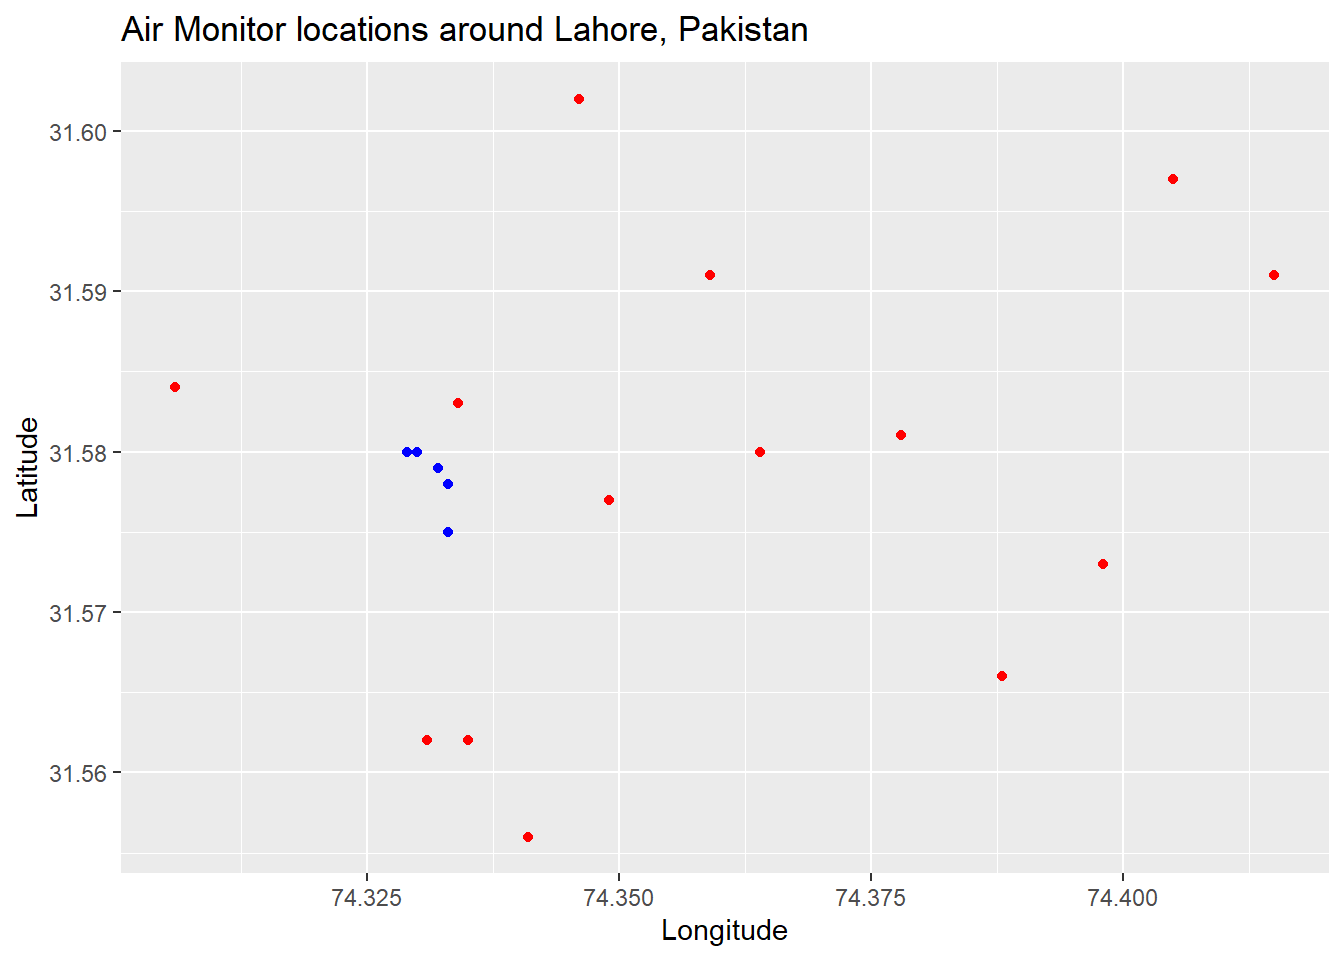
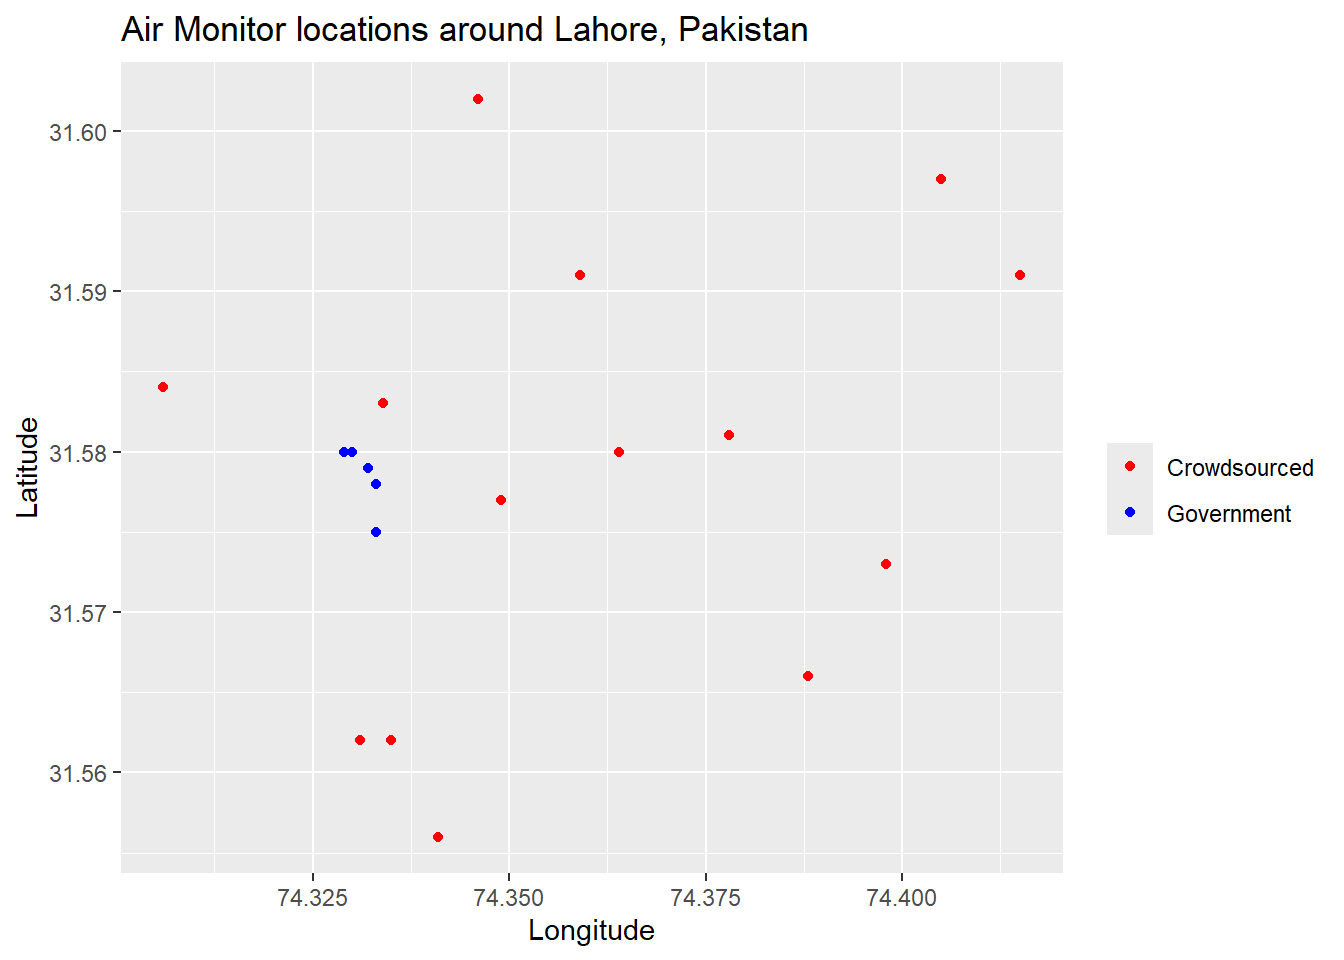
Tweeked hmwk1 for feedback

diff --git a/eds-222-hw1-Mull.html b/eds-222-hw1-Mull.html
@@ -170,19 +170,13 @@ Note
 <section id="load-libraries" class="level4">
 <h4 class="anchored" data-anchor-id="load-libraries">Load Libraries</h4>
 <div class="cell">
-<details class="code-fold">
-<summary>Code</summary>
 <div class="sourceCode cell-code" id="cb1"><pre class="sourceCode r code-with-copy"><code class="sourceCode r"><span id="cb1-1"><a href="#cb1-1" aria-hidden="true" tabindex="-1"></a><span class="fu">library</span>(tidyverse)</span>
 <span id="cb1-2"><a href="#cb1-2" aria-hidden="true" tabindex="-1"></a><span class="fu">library</span>(here)</span></code><button title="Copy to Clipboard" class="code-copy-button"><i class="bi"></i></button></pre></div>
-</details>
 </div>
 <p>Load the data from each source and label it as <code>crowdsourced</code> and <code>govt</code> accordingly. For example:</p>
 <div class="cell">
-<details class="code-fold">
-<summary>Code</summary>
 <div class="sourceCode cell-code" id="cb2"><pre class="sourceCode r code-with-copy"><code class="sourceCode r"><span id="cb2-1"><a href="#cb2-1" aria-hidden="true" tabindex="-1"></a>crowdsourced <span class="ot">&lt;-</span> <span class="fu">readRDS</span>(<span class="fu">file.path</span>(<span class="st">"data"</span>, <span class="st">"airpol-PK-crowdsourced.RDS"</span>))</span>
 <span id="cb2-2"><a href="#cb2-2" aria-hidden="true" tabindex="-1"></a>govt <span class="ot">&lt;-</span> <span class="fu">readRDS</span>(<span class="fu">file.path</span>(<span class="st">"data"</span>, <span class="st">"airpol-PK-govt.RDS"</span>))</span></code><button title="Copy to Clipboard" class="code-copy-button"><i class="bi"></i></button></pre></div>
-</details>
 </div>
 <div class="callout callout-style-default callout-warning callout-titled">
 <div class="callout-header d-flex align-content-center">
@@ -203,18 +197,12 @@ Warning
 </ol>
 <p>There are 5488 rows in crowdsourced and 1960 rows in govt.</p>
 <div class="cell">
-<details class="code-fold">
-<summary>Code</summary>
 <div class="sourceCode cell-code" id="cb3"><pre class="sourceCode r code-with-copy"><code class="sourceCode r"><span id="cb3-1"><a href="#cb3-1" aria-hidden="true" tabindex="-1"></a><span class="co"># Use nrow to search number of rows in data frames</span></span>
 <span id="cb3-2"><a href="#cb3-2" aria-hidden="true" tabindex="-1"></a><span class="fu">print</span>(<span class="fu">paste</span>(<span class="st">"Crowdsource has"</span>,<span class="fu">nrow</span>(crowdsourced), <span class="st">"rows"</span>))</span></code><button title="Copy to Clipboard" class="code-copy-button"><i class="bi"></i></button></pre></div>
-</details>
 <div class="cell-output cell-output-stdout">
 <pre><code>[1] "Crowdsource has 5488 rows"</code></pre>
 </div>
-<details class="code-fold">
-<summary>Code</summary>
 <div class="sourceCode cell-code" id="cb5"><pre class="sourceCode r code-with-copy"><code class="sourceCode r"><span id="cb5-1"><a href="#cb5-1" aria-hidden="true" tabindex="-1"></a><span class="fu">print</span>(<span class="fu">paste</span>(<span class="st">"Govt has"</span>,<span class="fu">nrow</span>(govt), <span class="st">"rows"</span>))</span></code><button title="Copy to Clipboard" class="code-copy-button"><i class="bi"></i></button></pre></div>
-</details>
 <div class="cell-output cell-output-stdout">
 <pre><code>[1] "Govt has 1960 rows"</code></pre>
 </div>
@@ -225,8 +213,6 @@ Warning
 <p>For this question I did it two different ways. First, I used groupby() and mutated a new column. Then, I printed the length of unique values in that series.</p>
 <p>The second way I used distinct() to find unique pairs in lat and long and then counted them. This was seemed cleaner in code.</p>
 <div class="cell">
-<details class="code-fold">
-<summary>Code</summary>
 <div class="sourceCode cell-code" id="cb7"><pre class="sourceCode r code-with-copy"><code class="sourceCode r"><span id="cb7-1"><a href="#cb7-1" aria-hidden="true" tabindex="-1"></a><span class="co"># Use groupby() and mutate to find the number of unique combinations and store them in a new series called lat_long </span></span>
 <span id="cb7-2"><a href="#cb7-2" aria-hidden="true" tabindex="-1"></a>unique_crowdsourced <span class="ot">&lt;-</span> crowdsourced <span class="sc">%&gt;%</span></span>
 <span id="cb7-3"><a href="#cb7-3" aria-hidden="true" tabindex="-1"></a>  <span class="fu">group_by</span>(latitude, longitude) <span class="sc">%&gt;%</span></span>
@@ -234,12 +220,9 @@ Warning
 <span id="cb7-5"><a href="#cb7-5" aria-hidden="true" tabindex="-1"></a>  </span>
 <span id="cb7-6"><a href="#cb7-6" aria-hidden="true" tabindex="-1"></a><span class="co"># Use unique() to find the number of unique values in lat_long. Use length to count the number of unique pairs. Print </span></span>
 <span id="cb7-7"><a href="#cb7-7" aria-hidden="true" tabindex="-1"></a><span class="fu">print</span>(<span class="fu">paste</span>(<span class="st">"The number of unique values in crowdsource lat_long is"</span>,<span class="fu">length</span>(<span class="fu">unique</span>(unique_crowdsourced<span class="sc">$</span>lat_long))))</span></code><button title="Copy to Clipboard" class="code-copy-button"><i class="bi"></i></button></pre></div>
-</details>
 <div class="cell-output cell-output-stdout">
 <pre><code>[1] "The number of unique values in crowdsource lat_long is 14"</code></pre>
 </div>
-<details class="code-fold">
-<summary>Code</summary>
 <div class="sourceCode cell-code" id="cb9"><pre class="sourceCode r code-with-copy"><code class="sourceCode r"><span id="cb9-1"><a href="#cb9-1" aria-hidden="true" tabindex="-1"></a><span class="co"># Use distinct to find the unique combinations of latitude and longitude and Count() to count them</span></span>
 <span id="cb9-2"><a href="#cb9-2" aria-hidden="true" tabindex="-1"></a>unique_govt <span class="ot">&lt;-</span> govt <span class="sc">%&gt;%</span></span>
 <span id="cb9-3"><a href="#cb9-3" aria-hidden="true" tabindex="-1"></a>  <span class="fu">distinct</span>(latitude, longitude) <span class="sc">%&gt;%</span></span>
@@ -247,7 +230,6 @@ Warning
 <span id="cb9-5"><a href="#cb9-5" aria-hidden="true" tabindex="-1"></a></span>
 <span id="cb9-6"><a href="#cb9-6" aria-hidden="true" tabindex="-1"></a><span class="co"># Print </span></span>
 <span id="cb9-7"><a href="#cb9-7" aria-hidden="true" tabindex="-1"></a><span class="fu">print</span>(<span class="fu">paste</span>(<span class="st">"The number of unique values in govt lat_long is"</span>,unique_govt))</span></code><button title="Copy to Clipboard" class="code-copy-button"><i class="bi"></i></button></pre></div>
-</details>
 <div class="cell-output cell-output-stdout">
 <pre><code>[1] "The number of unique values in govt lat_long is 5"</code></pre>
 </div>
@@ -273,7 +255,7 @@ Tip
 <ol type="1">
 <li>What is the <em>population</em> in this setting? Please be precise.</li>
 </ol>
-<p>The population is the entire pollution across Lahore. I.e. every single place would have a pollution associated with its location.</p>
+<p>The population is the entire pollution across Lahore. I.e. every single place would have a pollution associated with its location over the time frame given.</p>
 <ol start="2" type="1">
 <li>What are the <em>samples</em> in this setting? Please be precise.</li>
 </ol>
@@ -281,7 +263,7 @@ Tip
 <ol start="3" type="1">
 <li>These samples were not randomly collected from across locations in Lahore. Given the sampling approaches described above, discuss possible biases that may enter when we use these samples to construct estimates of population parameters.</li>
 </ol>
-<p>There could be numerous biases in the data offered. Some included disproportionate pollution numbers based on where sensors are location. Voluntary houses with sensors could be more affluent than others who did not participate. Better insulated homes could skew the numbers to show less pollution. Government sensors have been suspected of biased loactions to show better air quality for Lahore.</p>
+<p>There could be numerous biases in the data offered. Some included disproportionate pollution numbers based on where sensors are location. Voluntary houses with sensors could be more affluent than others who did not participate. Better insulated homes could skew the numbers to show less pollution. Government sensors have been suspected of biased locations to show better air quality for Lahore.</p>
 </section>
 <section id="question-3" class="level3">
 <h3 class="anchored" data-anchor-id="question-3">Question 3</h3>
@@ -289,69 +271,51 @@ Tip
 <li>For both the government data and the crowd-sourced data, report the sample mean, sample minimum, and sample maximum value of PM 2.5 (measured in <span class="math inline">\(\mu g/m^3\)</span>).</li>
 </ol>
 <div class="cell">
-<details class="code-fold">
-<summary>Code</summary>
 <div class="sourceCode cell-code" id="cb11"><pre class="sourceCode r code-with-copy"><code class="sourceCode r"><span id="cb11-1"><a href="#cb11-1" aria-hidden="true" tabindex="-1"></a><span class="co"># Use mean and buck to find the mean of PM series in crowdsourced data frame</span></span>
 <span id="cb11-2"><a href="#cb11-2" aria-hidden="true" tabindex="-1"></a>mean_crowsourced_pm <span class="ot">&lt;-</span> <span class="fu">mean</span>(crowdsourced<span class="sc">$</span>PM)</span>
 <span id="cb11-3"><a href="#cb11-3" aria-hidden="true" tabindex="-1"></a></span>
 <span id="cb11-4"><a href="#cb11-4" aria-hidden="true" tabindex="-1"></a><span class="co"># Print</span></span>
 <span id="cb11-5"><a href="#cb11-5" aria-hidden="true" tabindex="-1"></a><span class="fu">print</span>(<span class="fu">paste</span>(<span class="st">"Crowsourced PM mean is"</span>, <span class="fu">round</span>(mean_crowsourced_pm, <span class="dv">2</span>), <span class="st">"µg/m³"</span>))</span></code><button title="Copy to Clipboard" class="code-copy-button"><i class="bi"></i></button></pre></div>
-</details>
 <div class="cell-output cell-output-stdout">
 <pre><code>[1] "Crowsourced PM mean is 70.2 µg/m³"</code></pre>
 </div>
-<details class="code-fold">
-<summary>Code</summary>
 <div class="sourceCode cell-code" id="cb13"><pre class="sourceCode r code-with-copy"><code class="sourceCode r"><span id="cb13-1"><a href="#cb13-1" aria-hidden="true" tabindex="-1"></a><span class="co"># Use mean and buck to find the mean of PM series in govt data frame</span></span>
 <span id="cb13-2"><a href="#cb13-2" aria-hidden="true" tabindex="-1"></a>mean_govt_pm <span class="ot">&lt;-</span> <span class="fu">mean</span>(govt<span class="sc">$</span>PM)</span>
 <span id="cb13-3"><a href="#cb13-3" aria-hidden="true" tabindex="-1"></a></span>
 <span id="cb13-4"><a href="#cb13-4" aria-hidden="true" tabindex="-1"></a><span class="co"># Print </span></span>
 <span id="cb13-5"><a href="#cb13-5" aria-hidden="true" tabindex="-1"></a><span class="fu">print</span>(<span class="fu">paste</span>(<span class="st">"Governemnt PM mean is"</span>, <span class="fu">round</span>(mean_govt_pm, <span class="dv">2</span>), <span class="st">"µg/m³"</span>))</span></code><button title="Copy to Clipboard" class="code-copy-button"><i class="bi"></i></button></pre></div>
-</details>
 <div class="cell-output cell-output-stdout">
 <pre><code>[1] "Governemnt PM mean is 39.65 µg/m³"</code></pre>
 </div>
-<details class="code-fold">
-<summary>Code</summary>
 <div class="sourceCode cell-code" id="cb15"><pre class="sourceCode r code-with-copy"><code class="sourceCode r"><span id="cb15-1"><a href="#cb15-1" aria-hidden="true" tabindex="-1"></a><span class="co"># Find PM sample min of crowdsourced</span></span>
 <span id="cb15-2"><a href="#cb15-2" aria-hidden="true" tabindex="-1"></a>min_crowsourced_pm <span class="ot">&lt;-</span> <span class="fu">min</span>(crowdsourced<span class="sc">$</span>PM)</span>
 <span id="cb15-3"><a href="#cb15-3" aria-hidden="true" tabindex="-1"></a></span>
 <span id="cb15-4"><a href="#cb15-4" aria-hidden="true" tabindex="-1"></a><span class="co"># Print</span></span>
 <span id="cb15-5"><a href="#cb15-5" aria-hidden="true" tabindex="-1"></a><span class="fu">print</span>(<span class="fu">paste</span>(<span class="st">"Crowdsourced PM min is"</span>, min_crowsourced_pm, <span class="st">"µg/m³"</span>))</span></code><button title="Copy to Clipboard" class="code-copy-button"><i class="bi"></i></button></pre></div>
-</details>
 <div class="cell-output cell-output-stdout">
 <pre><code>[1] "Crowdsourced PM min is 20 µg/m³"</code></pre>
 </div>
-<details class="code-fold">
-<summary>Code</summary>
 <div class="sourceCode cell-code" id="cb17"><pre class="sourceCode r code-with-copy"><code class="sourceCode r"><span id="cb17-1"><a href="#cb17-1" aria-hidden="true" tabindex="-1"></a><span class="co"># Find PM sample min of govt</span></span>
 <span id="cb17-2"><a href="#cb17-2" aria-hidden="true" tabindex="-1"></a>min_govt_pm <span class="ot">&lt;-</span> <span class="fu">min</span>(govt<span class="sc">$</span>PM)</span>
 <span id="cb17-3"><a href="#cb17-3" aria-hidden="true" tabindex="-1"></a></span>
 <span id="cb17-4"><a href="#cb17-4" aria-hidden="true" tabindex="-1"></a><span class="co"># Print </span></span>
 <span id="cb17-5"><a href="#cb17-5" aria-hidden="true" tabindex="-1"></a><span class="fu">print</span>(<span class="fu">paste</span>(<span class="st">"Government PM min is"</span>, min_govt_pm, <span class="st">"µg/m³"</span>))</span></code><button title="Copy to Clipboard" class="code-copy-button"><i class="bi"></i></button></pre></div>
-</details>
 <div class="cell-output cell-output-stdout">
 <pre><code>[1] "Government PM min is 15 µg/m³"</code></pre>
 </div>
-<details class="code-fold">
-<summary>Code</summary>
 <div class="sourceCode cell-code" id="cb19"><pre class="sourceCode r code-with-copy"><code class="sourceCode r"><span id="cb19-1"><a href="#cb19-1" aria-hidden="true" tabindex="-1"></a><span class="co"># Find Pm sample max of crowdsource</span></span>
 <span id="cb19-2"><a href="#cb19-2" aria-hidden="true" tabindex="-1"></a>max_crowdsourced_pm <span class="ot">&lt;-</span> <span class="fu">max</span>(crowdsourced<span class="sc">$</span>PM)</span>
 <span id="cb19-3"><a href="#cb19-3" aria-hidden="true" tabindex="-1"></a></span>
 <span id="cb19-4"><a href="#cb19-4" aria-hidden="true" tabindex="-1"></a><span class="co"># Print </span></span>
 <span id="cb19-5"><a href="#cb19-5" aria-hidden="true" tabindex="-1"></a><span class="fu">print</span>(<span class="fu">paste</span>(<span class="st">"Crowdsourced PM max is"</span>, max_crowdsourced_pm, <span class="st">"µg/m³"</span>))</span></code><button title="Copy to Clipboard" class="code-copy-button"><i class="bi"></i></button></pre></div>
-</details>
 <div class="cell-output cell-output-stdout">
 <pre><code>[1] "Crowdsourced PM max is 120 µg/m³"</code></pre>
 </div>
-<details class="code-fold">
-<summary>Code</summary>
 <div class="sourceCode cell-code" id="cb21"><pre class="sourceCode r code-with-copy"><code class="sourceCode r"><span id="cb21-1"><a href="#cb21-1" aria-hidden="true" tabindex="-1"></a><span class="co"># Find Pm sample max of govt </span></span>
 <span id="cb21-2"><a href="#cb21-2" aria-hidden="true" tabindex="-1"></a>max_govt_pm <span class="ot">&lt;-</span> <span class="fu">max</span>(govt<span class="sc">$</span>PM)</span>
 <span id="cb21-3"><a href="#cb21-3" aria-hidden="true" tabindex="-1"></a></span>
 <span id="cb21-4"><a href="#cb21-4" aria-hidden="true" tabindex="-1"></a><span class="co"># Print  </span></span>
 <span id="cb21-5"><a href="#cb21-5" aria-hidden="true" tabindex="-1"></a><span class="fu">print</span>(<span class="fu">paste</span>(<span class="st">"Government PM max is"</span>, max_govt_pm, <span class="st">"µg/m³"</span>))</span></code><button title="Copy to Clipboard" class="code-copy-button"><i class="bi"></i></button></pre></div>
-</details>
 <div class="cell-output cell-output-stdout">
 <pre><code>[1] "Government PM max is 65 µg/m³"</code></pre>
 </div>
@@ -369,22 +333,18 @@ Tip
 <h3 class="anchored" data-anchor-id="question-4">Question 4</h3>
 <p>Use the location of the air pollution stations for both of the sampling strategies to generate a map showing locations of each observation. Color the two samples with different colors to highlight how each sample obtains measurements from different parts of the city.</p>
 <div class="cell">
-<details class="code-fold">
-<summary>Code</summary>
 <div class="sourceCode cell-code" id="cb23"><pre class="sourceCode r code-with-copy"><code class="sourceCode r"><span id="cb23-1"><a href="#cb23-1" aria-hidden="true" tabindex="-1"></a><span class="co"># Use ggplot to map air pollution locations</span></span>
 <span id="cb23-2"><a href="#cb23-2" aria-hidden="true" tabindex="-1"></a>air_mon_location <span class="ot">&lt;-</span> <span class="fu">ggplot</span>() <span class="sc">+</span></span>
 <span id="cb23-3"><a href="#cb23-3" aria-hidden="true" tabindex="-1"></a>  <span class="fu">geom_point</span>(<span class="at">data =</span> crowdsourced, </span>
 <span id="cb23-4"><a href="#cb23-4" aria-hidden="true" tabindex="-1"></a>             <span class="fu">aes</span>(<span class="at">x =</span> longitude, </span>
-<span id="cb23-5"><a href="#cb23-5" aria-hidden="true" tabindex="-1"></a>                 <span class="at">y =</span> latitude), </span>
-<span id="cb23-6"><a href="#cb23-6" aria-hidden="true" tabindex="-1"></a>                 <span class="at">color =</span> <span class="st">"red"</span>) <span class="sc">+</span></span>
-<span id="cb23-7"><a href="#cb23-7" aria-hidden="true" tabindex="-1"></a>  <span class="fu">geom_point</span>(<span class="at">data =</span> govt, </span>
-<span id="cb23-8"><a href="#cb23-8" aria-hidden="true" tabindex="-1"></a>             <span class="fu">aes</span>(<span class="at">x =</span> longitude, </span>
-<span id="cb23-9"><a href="#cb23-9" aria-hidden="true" tabindex="-1"></a>                 <span class="at">y =</span> latitude), </span>
-<span id="cb23-10"><a href="#cb23-10" aria-hidden="true" tabindex="-1"></a>                 <span class="at">color =</span> <span class="st">"blue"</span>) <span class="sc">+</span> </span>
-<span id="cb23-11"><a href="#cb23-11" aria-hidden="true" tabindex="-1"></a>  <span class="fu">labs</span>(<span class="at">title =</span> <span class="st">"Air Monitor locations around Lahore, Pakistan"</span>, <span class="at">x =</span> <span class="st">"Longitude"</span>, <span class="at">y =</span> <span class="st">"Latitude"</span>)</span>
-<span id="cb23-12"><a href="#cb23-12" aria-hidden="true" tabindex="-1"></a></span>
-<span id="cb23-13"><a href="#cb23-13" aria-hidden="true" tabindex="-1"></a><span class="fu">print</span>(air_mon_location)</span></code><button title="Copy to Clipboard" class="code-copy-button"><i class="bi"></i></button></pre></div>
-</details>
+<span id="cb23-5"><a href="#cb23-5" aria-hidden="true" tabindex="-1"></a>                 <span class="at">y =</span> latitude, </span>
+<span id="cb23-6"><a href="#cb23-6" aria-hidden="true" tabindex="-1"></a>                 <span class="at">color =</span> <span class="st">'Crowdsourced'</span>)) <span class="sc">+</span></span>
+<span id="cb23-7"><a href="#cb23-7" aria-hidden="true" tabindex="-1"></a>  <span class="fu">geom_point</span>(<span class="at">data =</span> govt, <span class="fu">aes</span>(<span class="at">x =</span> longitude, <span class="at">y =</span> latitude, <span class="at">color =</span> <span class="st">"Government"</span>))<span class="sc">+</span> </span>
+<span id="cb23-8"><a href="#cb23-8" aria-hidden="true" tabindex="-1"></a>  <span class="fu">labs</span>(<span class="at">title =</span> <span class="st">"Air Monitor locations around Lahore, Pakistan"</span>, <span class="at">x =</span> <span class="st">"Longitude"</span>, <span class="at">y =</span> <span class="st">"Latitude"</span>) <span class="sc">+</span></span>
+<span id="cb23-9"><a href="#cb23-9" aria-hidden="true" tabindex="-1"></a>   <span class="fu">scale_color_manual</span>(<span class="st">""</span>,<span class="at">values =</span> <span class="fu">c</span>(<span class="st">"Crowdsourced"</span> <span class="ot">=</span> <span class="st">"red"</span>, <span class="st">"Government"</span> <span class="ot">=</span> <span class="st">"blue"</span>))</span>
+<span id="cb23-10"><a href="#cb23-10" aria-hidden="true" tabindex="-1"></a></span>
+<span id="cb23-11"><a href="#cb23-11" aria-hidden="true" tabindex="-1"></a></span>
+<span id="cb23-12"><a href="#cb23-12" aria-hidden="true" tabindex="-1"></a><span class="fu">print</span>(air_mon_location)</span></code><button title="Copy to Clipboard" class="code-copy-button"><i class="bi"></i></button></pre></div>
 <div class="cell-output-display">
 <div>
 <figure class="figure">
@@ -420,8 +380,6 @@ Tip
 <h4 class="anchored" data-anchor-id="question-6.1">Question 6.1</h4>
 <p>First, generate a <em>random sample</em> of size <span class="math inline">\(n=1000\)</span> air pollution records by (i) pooling observations across the government and the crowd-sourced data; and (ii) drawing observations at random from this pooled sample.</p>
 <div class="cell">
-<details class="code-fold">
-<summary>Code</summary>
 <div class="sourceCode cell-code" id="cb24"><pre class="sourceCode r code-with-copy"><code class="sourceCode r"><span id="cb24-1"><a href="#cb24-1" aria-hidden="true" tabindex="-1"></a><span class="co"># Use bind_rows to pool data from both data frames </span></span>
 <span id="cb24-2"><a href="#cb24-2" aria-hidden="true" tabindex="-1"></a>pooled_data <span class="ot">&lt;-</span> <span class="fu">bind_rows</span>(govt, crowdsourced)</span>
 <span id="cb24-3"><a href="#cb24-3" aria-hidden="true" tabindex="-1"></a></span>
@@ -433,9 +391,8 @@ Tip
 <span id="cb24-9"><a href="#cb24-9" aria-hidden="true" tabindex="-1"></a></span>
 <span id="cb24-10"><a href="#cb24-10" aria-hidden="true" tabindex="-1"></a><span class="co"># Print</span></span>
 <span id="cb24-11"><a href="#cb24-11" aria-hidden="true" tabindex="-1"></a><span class="fu">print</span>(<span class="fu">paste</span>(<span class="st">"The mean of the random sample is"</span>,mean_random_sample, <span class="st">"µg/m³"</span>))</span></code><button title="Copy to Clipboard" class="code-copy-button"><i class="bi"></i></button></pre></div>
-</details>
 <div class="cell-output cell-output-stdout">
-<pre><code>[1] "The mean of the random sample is 62.207 µg/m³"</code></pre>
+<pre><code>[1] "The mean of the random sample is 61.386 µg/m³"</code></pre>
 </div>
 </div>
 <div class="callout callout-style-default callout-tip callout-titled">
@@ -453,8 +410,6 @@ Tip
 </div>
 <p>Second, create a <em>stratified random sample</em>. Do so by (i) stratifying your pooled data-set into strata of 0.01 degrees of latitude, and (ii) randomly sampling 200 air pollution observations from each stratum.</p>
 <div class="cell">
-<details class="code-fold">
-<summary>Code</summary>
 <div class="sourceCode cell-code" id="cb26"><pre class="sourceCode r code-with-copy"><code class="sourceCode r"><span id="cb26-1"><a href="#cb26-1" aria-hidden="true" tabindex="-1"></a><span class="co"># Create strata by rounding the latitude to 0.01 degrees</span></span>
 <span id="cb26-2"><a href="#cb26-2" aria-hidden="true" tabindex="-1"></a>pooled_data <span class="ot">&lt;-</span> pooled_data <span class="sc">%&gt;%</span></span>
 <span id="cb26-3"><a href="#cb26-3" aria-hidden="true" tabindex="-1"></a>  <span class="fu">mutate</span>(<span class="at">lat_stratum =</span> <span class="fu">round</span>(latitude, <span class="dv">2</span>))</span>
@@ -470,9 +425,8 @@ Tip
 <span id="cb26-13"><a href="#cb26-13" aria-hidden="true" tabindex="-1"></a></span>
 <span id="cb26-14"><a href="#cb26-14" aria-hidden="true" tabindex="-1"></a><span class="co"># Print</span></span>
 <span id="cb26-15"><a href="#cb26-15" aria-hidden="true" tabindex="-1"></a><span class="fu">print</span>(<span class="fu">paste</span>(<span class="st">"The mean of the strat sample is"</span>, mean_strat_sample, <span class="st">"µg/m³"</span>))</span></code><button title="Copy to Clipboard" class="code-copy-button"><i class="bi"></i></button></pre></div>
-</details>
 <div class="cell-output cell-output-stdout">
-<pre><code>[1] "The mean of the strat sample is 66.808 µg/m³"</code></pre>
+<pre><code>[1] "The mean of the strat sample is 67.137 µg/m³"</code></pre>
 </div>
 </div>
 </section>
